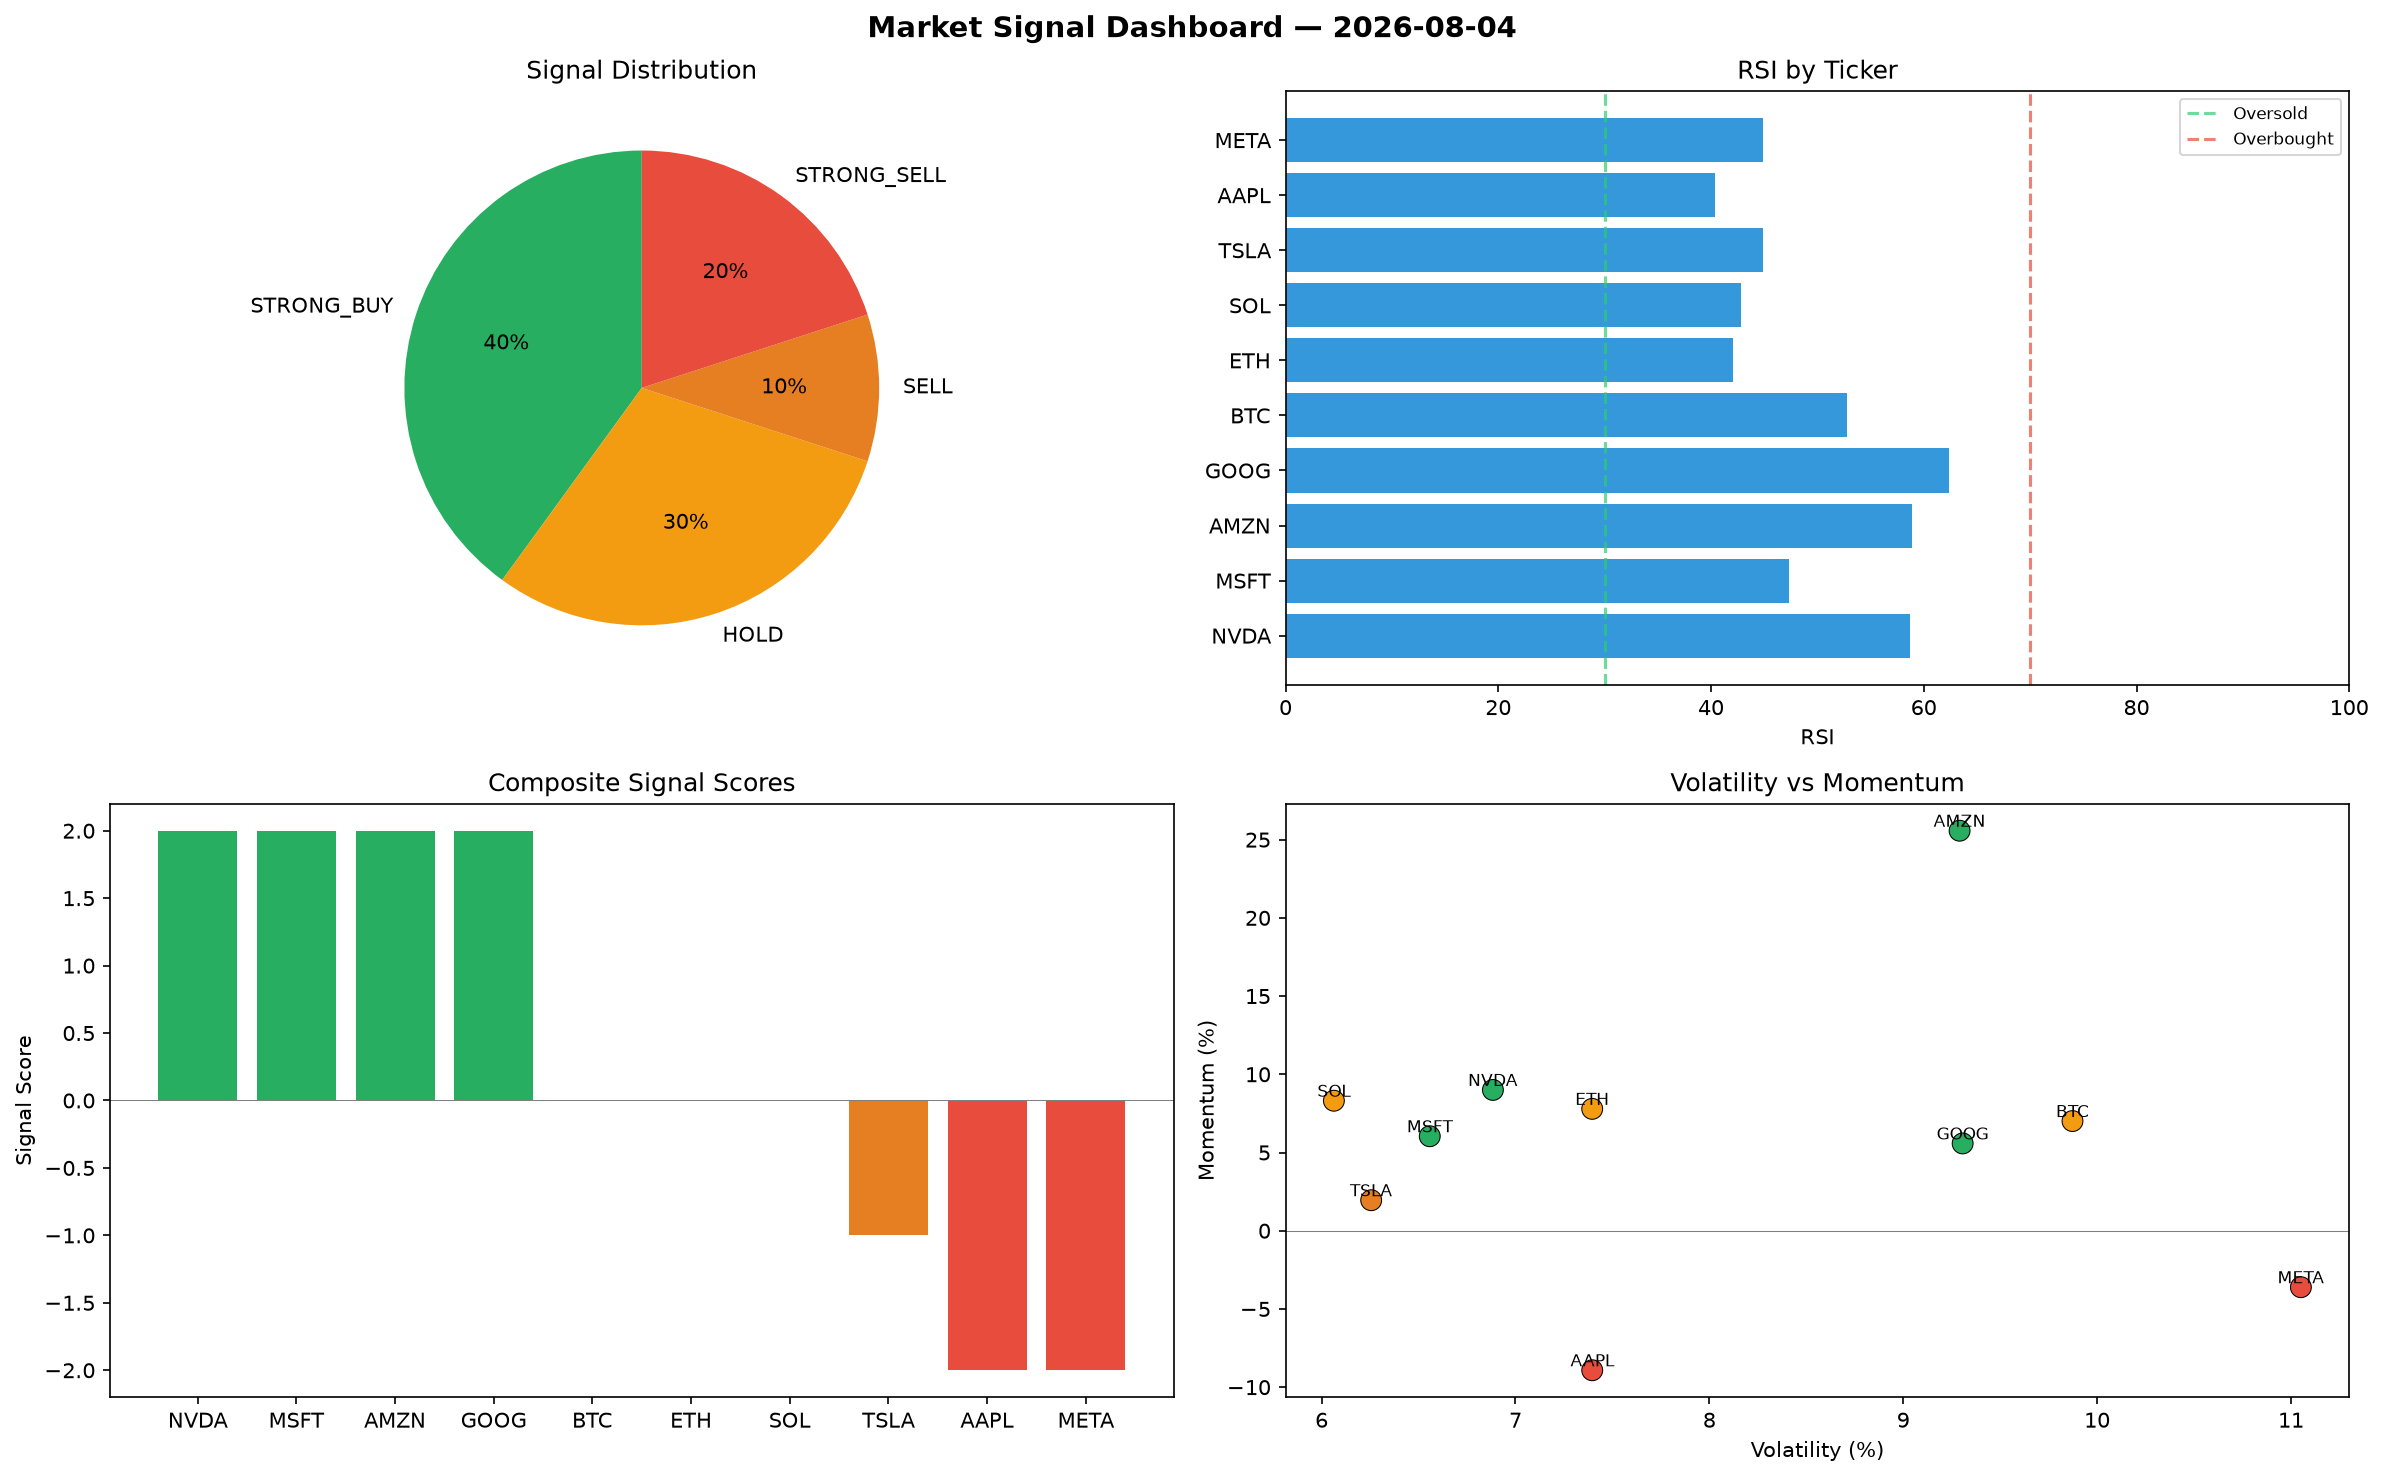
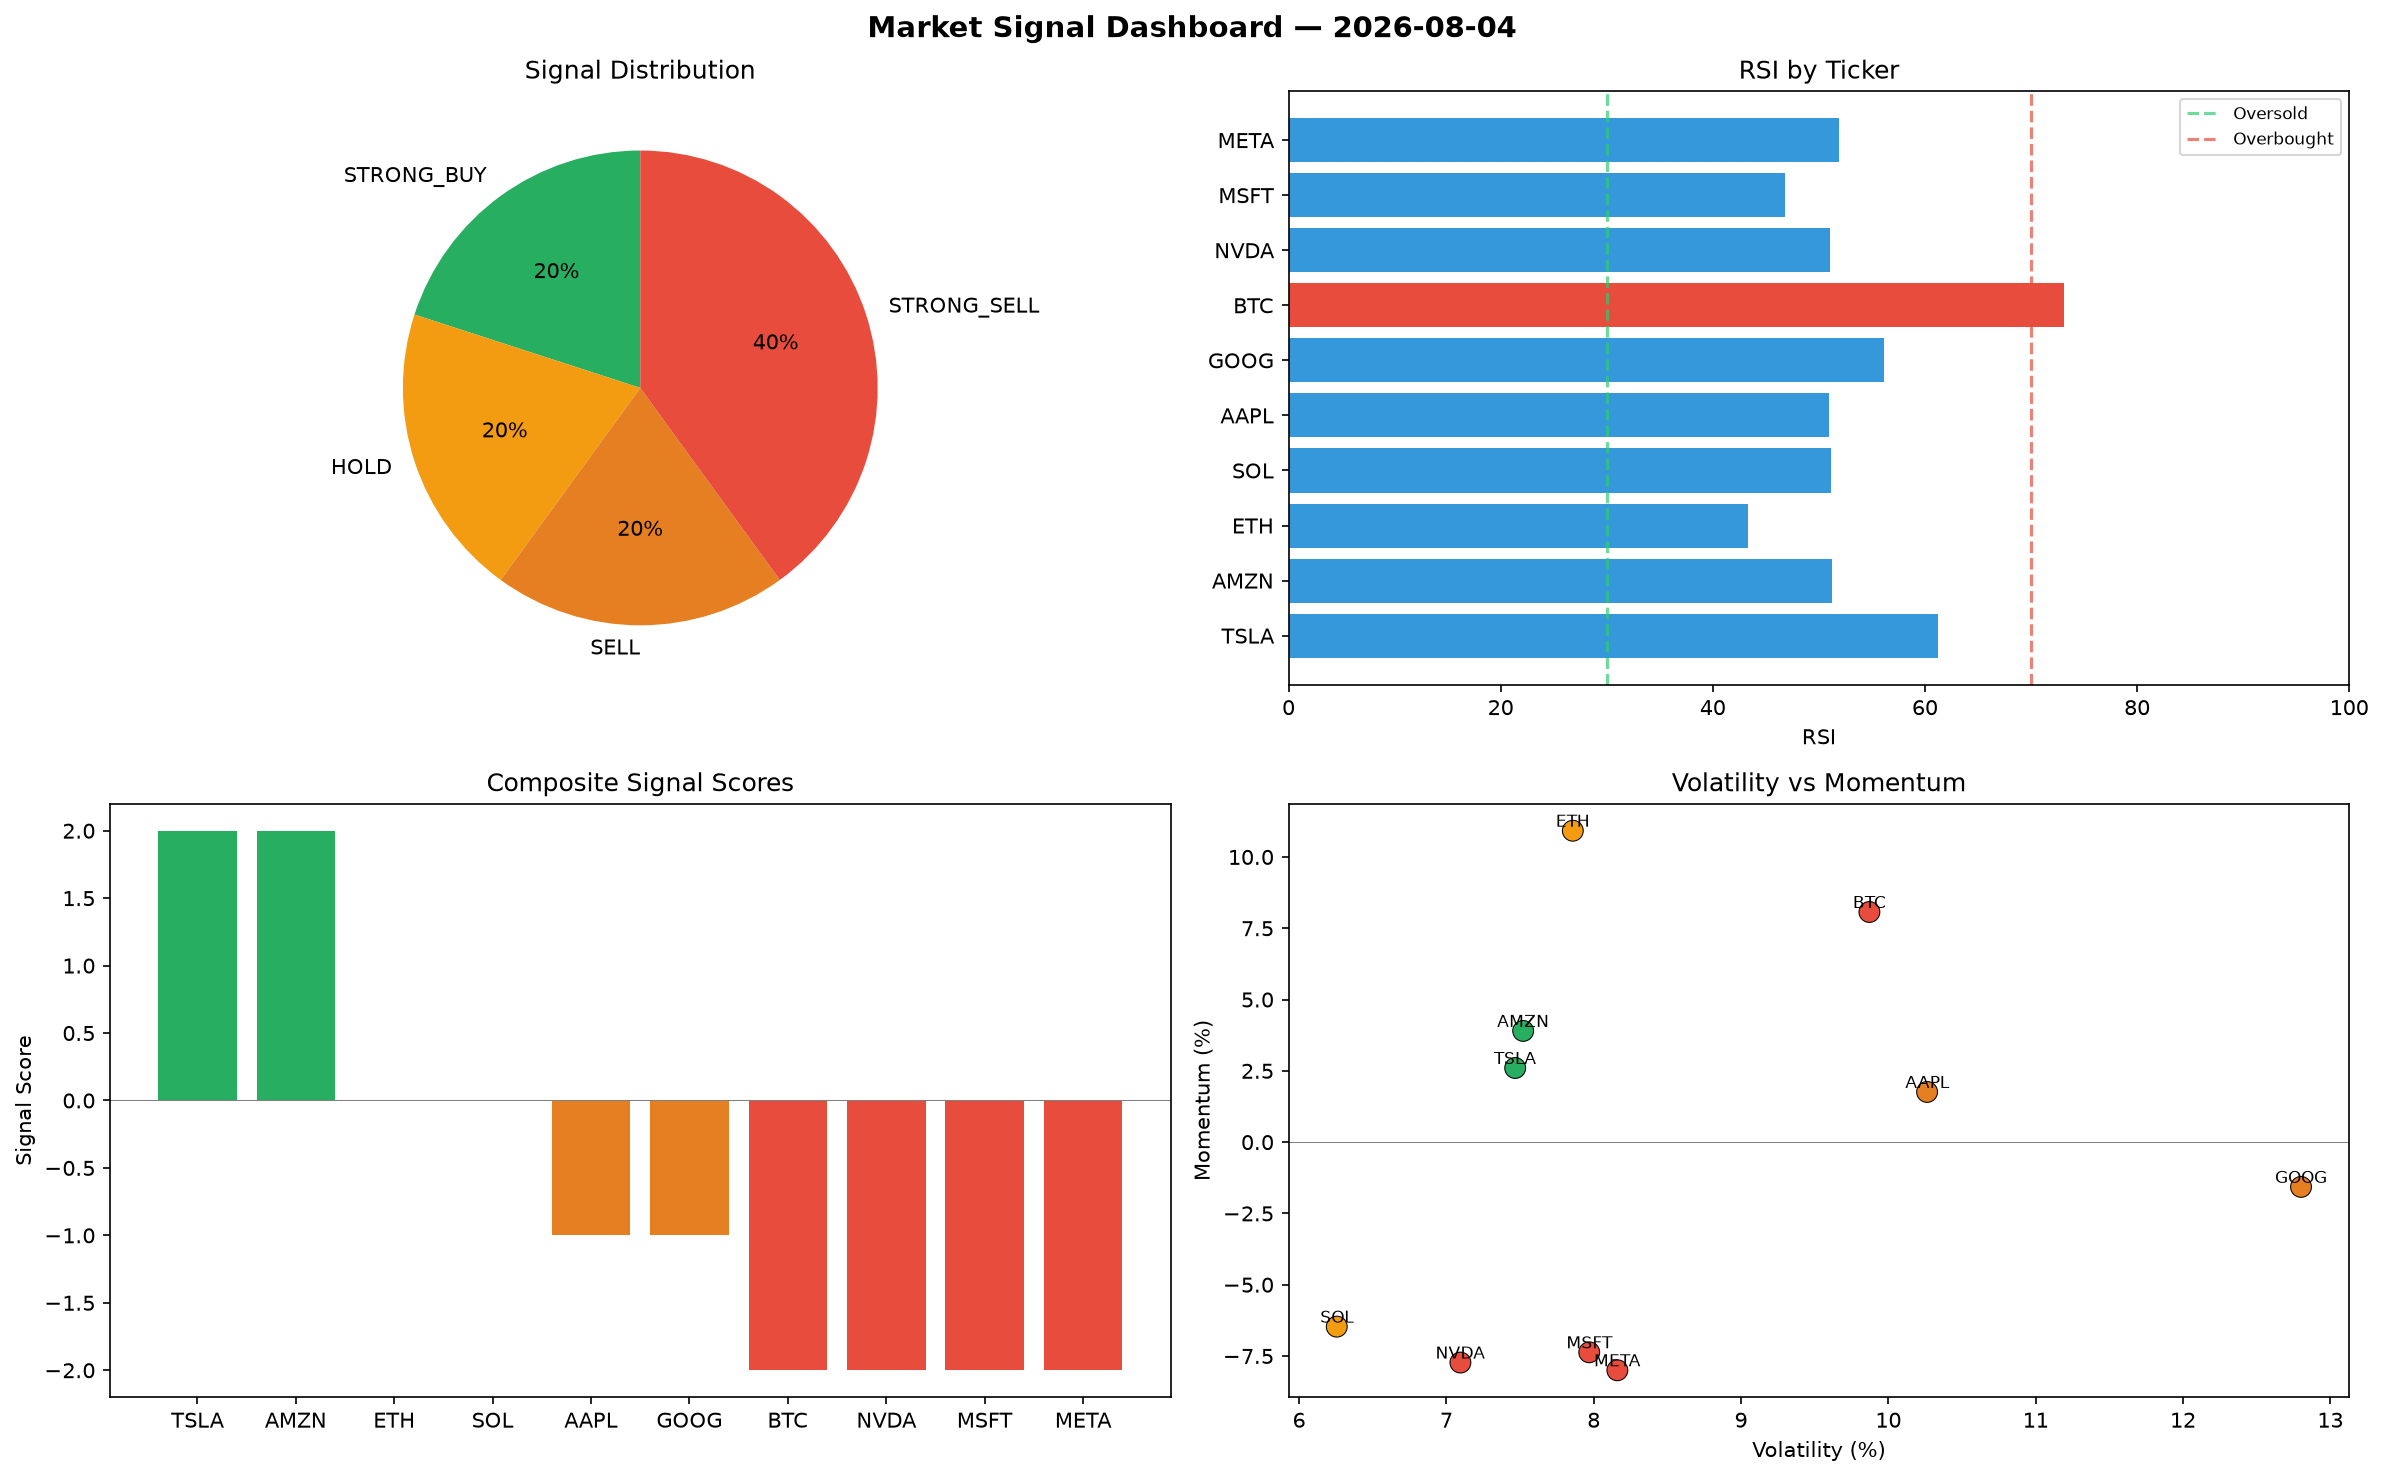
automated-bots: market signals 2026-08-04T11:01

diff --git a/logs/2026-08-04.md b/logs/2026-08-04.md
@@ -1,6 +1,6 @@
 # Market Signal Report — 2026-08-04
 
-**Run ID:** `6ec56f0abf` | **Buy:** 4 | **Sell:** 3 | **Hold:** 3
+**Run ID:** `403c03694c` | **Buy:** 2 | **Sell:** 6 | **Hold:** 2
 
 ![Dashboard](2026-08-04_dashboard.png)
 
@@ -8,28 +8,28 @@
 
 | Ticker | Price | Signal | Score | RSI | Momentum | Confidence |
 |--------|-------|--------|-------|-----|----------|------------|
-| NVDA | $1040.21 | **STRONG_BUY** | 2 | 58.67 | 0.09 | 0.5 |
-| MSFT | $281.27 | **STRONG_BUY** | 2 | 47.35 | 0.0604 | 0.5 |
-| AMZN | $3570.57 | **STRONG_BUY** | 2 | 58.89 | 0.2557 | 0.5 |
-| GOOG | $3342.01 | **STRONG_BUY** | 2 | 62.33 | 0.0558 | 0.5 |
-| BTC | $323.63 | **HOLD** | 0 | 52.75 | 0.0701 | 0.0 |
-| ETH | $3455.19 | **HOLD** | 0 | 42.08 | 0.0779 | 0.0 |
-| SOL | $2135.94 | **HOLD** | 0 | 42.82 | 0.0831 | 0.0 |
-| TSLA | $4953.53 | **SELL** | -1 | 44.87 | 0.0195 | 0.25 |
-| AAPL | $4346.96 | **STRONG_SELL** | -2 | 40.39 | -0.0892 | 0.5 |
-| META | $2475.85 | **STRONG_SELL** | -2 | 44.86 | -0.0361 | 0.5 |
+| TSLA | $3044.25 | **STRONG_BUY** | 2 | 61.2 | 0.026 | 0.5 |
+| AMZN | $355.08 | **STRONG_BUY** | 2 | 51.25 | 0.039 | 0.5 |
+| ETH | $5199.45 | **HOLD** | 0 | 43.29 | 0.1092 | 0.0 |
+| SOL | $872.75 | **HOLD** | 0 | 51.11 | -0.0647 | 0.0 |
+| AAPL | $4084.33 | **SELL** | -1 | 50.92 | 0.0176 | 0.25 |
+| GOOG | $3887.87 | **SELL** | -1 | 56.18 | -0.0157 | 0.25 |
+| BTC | $4134.42 | **STRONG_SELL** | -2 | 73.15 | 0.0807 | 0.5 |
+| NVDA | $1903.83 | **STRONG_SELL** | -2 | 51.09 | -0.0773 | 0.5 |
+| MSFT | $2362.15 | **STRONG_SELL** | -2 | 46.76 | -0.0737 | 0.5 |
+| META | $1171.69 | **STRONG_SELL** | -2 | 51.9 | -0.08 | 0.5 |
 
 ## Delta vs Yesterday
 
 | Ticker | Today | Yesterday | Price Change | Signal Changed |
 |--------|-------|-----------|-------------|----------------|
-| NVDA | STRONG_BUY | HOLD | 📉 -22.81% | ⚠ YES |
-| MSFT | STRONG_BUY | HOLD | 📉 -90.44% | ⚠ YES |
-| AMZN | STRONG_BUY | STRONG_BUY | 📉 -31.35% | — |
-| GOOG | STRONG_BUY | STRONG_BUY | 📈 2243.3% | — |
-| BTC | HOLD | BUY | 📉 -89.34% | ⚠ YES |
-| ETH | HOLD | STRONG_SELL | 📈 847.22% | ⚠ YES |
-| SOL | HOLD | STRONG_BUY | 📉 -19.7% | ⚠ YES |
-| TSLA | SELL | BUY | 📈 260.72% | ⚠ YES |
-| AAPL | STRONG_SELL | BUY | 📉 -5.59% | ⚠ YES |
-| META | STRONG_SELL | HOLD | 📉 -23.8% | ⚠ YES |
+| TSLA | STRONG_BUY | BUY | 📈 121.68% | ⚠ YES |
+| AMZN | STRONG_BUY | STRONG_BUY | 📉 -93.17% | — |
+| ETH | HOLD | STRONG_SELL | 📈 1325.41% | ⚠ YES |
+| SOL | HOLD | STRONG_BUY | 📉 -67.19% | ⚠ YES |
+| AAPL | SELL | BUY | 📉 -11.29% | ⚠ YES |
+| GOOG | SELL | STRONG_BUY | 📈 2626.03% | ⚠ YES |
+| BTC | STRONG_SELL | BUY | 📈 36.17% | ⚠ YES |
+| NVDA | STRONG_SELL | HOLD | 📈 41.27% | ⚠ YES |
+| MSFT | STRONG_SELL | HOLD | 📉 -19.7% | ⚠ YES |
+| META | STRONG_SELL | HOLD | 📉 -63.94% | ⚠ YES |
